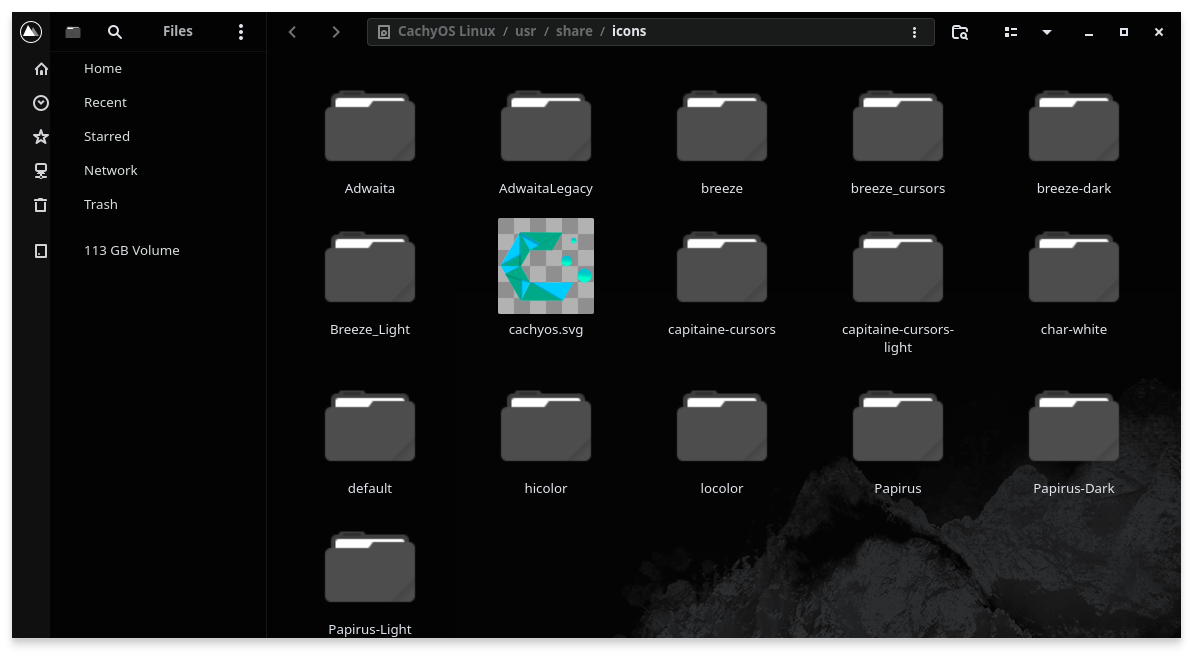
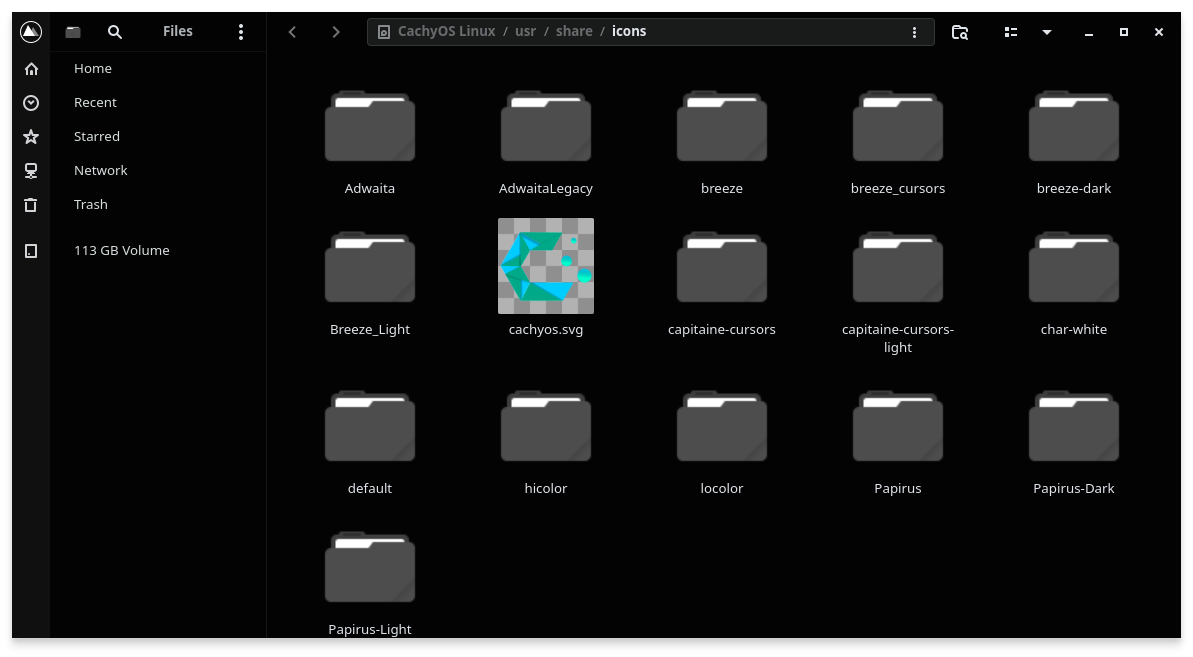
Nautilus: grey selection marker, no view background
Mark the selected place with the neutral grey of the Tela black folder
icons (#4d4d4d square and dot) instead of Qogir's blue, and drop the
corner mountains so the file view stays pure black.

diff --git a/gtk-amoled/_nautilus.scss b/gtk-amoled/_nautilus.scss
@@ -16,6 +16,12 @@ $_dot_position: $_strip_width + 4px; // matches upstream's GTK 3 layout
 // enough to read as a separate column.
 $_strip_bg: if($variant == 'dark', #101010, $dark_sidebar_icon_bg);
 
+// The selected place is marked in neutral grey on AMOLED (the folder grey of
+// the Tela black icon theme) instead of Qogir's blue.
+$_mark: if($variant == 'dark', #4d4d4d, $selected_bg_color);
+$_mark_edge: lighten($_mark, 10%);
+$_dot: if($variant == 'dark', 'selected-dot-amoled', 'selected-dot');
+
 .nautilus-window {
   .sidebar-pane > toolbarview {
     background-image: image($_strip_bg);
@@ -63,15 +69,15 @@ $_strip_bg: if($variant == 'dark', #101010, $dark_sidebar_icon_bg);
       &:hover:not(:selected) {
         color: $fg_color;
         background-color: transparentize($dark_sidebar_fg, 0.95);
-        box-shadow: inset -2px 0 lighten($selected_bg_color, 10%),
+        box-shadow: inset -2px 0 $_mark_edge,
                     inset $_strip_width 0 0 0 $_strip_bg;
       }
 
       &:selected, &:selected:hover, &:active:hover {
         background-color: transparent;
-        background-image: -gtk-scaled(url("assets/selected-dot.png"), url("assets/selected-dot@2.png"));
+        background-image: -gtk-scaled(url("assets/#{$_dot}.png"), url("assets/#{$_dot}@2.png"));
         background-position: $_dot_position center;
-        box-shadow: inset $_strip_width 0 0 0 $selected_bg_color;
+        box-shadow: inset $_strip_width 0 0 0 $_mark;
 
         > revealer > box {
           > image:first-child { color: $selected_fg_color; }
@@ -81,8 +87,8 @@ $_strip_bg: if($variant == 'dark', #101010, $dark_sidebar_icon_bg);
 
       &:selected:hover, &:active:hover {
         background-color: transparentize($dark_sidebar_fg, 0.95);
-        box-shadow: inset -2px 0 lighten($selected_bg_color, 10%),
-                    inset $_strip_width 0 0 0 $selected_bg_color;
+        box-shadow: inset -2px 0 $_mark_edge,
+                    inset $_strip_width 0 0 0 $_mark;
       }
 
       &:disabled {
@@ -93,14 +99,4 @@ $_strip_bg: if($variant == 'dark', #101010, $dark_sidebar_icon_bg);
     }
   }
 
-  // Qogir's mountains in the corner of the icon view. The upstream dark image
-  // has an opaque #282a33 background, so the AMOLED variant ships its own with
-  // a transparent one.
-  .nautilus-grid-view gridview {
-    background-image: if($variant == 'dark',
-      -gtk-scaled(url("assets/backimage-amoled.png"), url("assets/backimage-amoled@2.png")),
-      -gtk-scaled(url("assets/backimage.png"), url("assets/backimage@2.png")));
-    background-repeat: no-repeat;
-    background-position: bottom right;
-  }
 }

diff --git a/gtk/src/_sass/gtk/_amoled-nautilus.scss b/gtk/src/_sass/gtk/_amoled-nautilus.scss
@@ -16,6 +16,12 @@ $_dot_position: $_strip_width + 4px; // matches upstream's GTK 3 layout
 // enough to read as a separate column.
 $_strip_bg: if($variant == 'dark', #101010, $dark_sidebar_icon_bg);
 
+// The selected place is marked in neutral grey on AMOLED (the folder grey of
+// the Tela black icon theme) instead of Qogir's blue.
+$_mark: if($variant == 'dark', #4d4d4d, $selected_bg_color);
+$_mark_edge: lighten($_mark, 10%);
+$_dot: if($variant == 'dark', 'selected-dot-amoled', 'selected-dot');
+
 .nautilus-window {
   .sidebar-pane > toolbarview {
     background-image: image($_strip_bg);
@@ -63,15 +69,15 @@ $_strip_bg: if($variant == 'dark', #101010, $dark_sidebar_icon_bg);
       &:hover:not(:selected) {
         color: $fg_color;
         background-color: transparentize($dark_sidebar_fg, 0.95);
-        box-shadow: inset -2px 0 lighten($selected_bg_color, 10%),
+        box-shadow: inset -2px 0 $_mark_edge,
                     inset $_strip_width 0 0 0 $_strip_bg;
       }
 
       &:selected, &:selected:hover, &:active:hover {
         background-color: transparent;
-        background-image: -gtk-scaled(url("assets/selected-dot.png"), url("assets/selected-dot@2.png"));
+        background-image: -gtk-scaled(url("assets/#{$_dot}.png"), url("assets/#{$_dot}@2.png"));
         background-position: $_dot_position center;
-        box-shadow: inset $_strip_width 0 0 0 $selected_bg_color;
+        box-shadow: inset $_strip_width 0 0 0 $_mark;
 
         > revealer > box {
           > image:first-child { color: $selected_fg_color; }
@@ -81,8 +87,8 @@ $_strip_bg: if($variant == 'dark', #101010, $dark_sidebar_icon_bg);
 
       &:selected:hover, &:active:hover {
         background-color: transparentize($dark_sidebar_fg, 0.95);
-        box-shadow: inset -2px 0 lighten($selected_bg_color, 10%),
-                    inset $_strip_width 0 0 0 $selected_bg_color;
+        box-shadow: inset -2px 0 $_mark_edge,
+                    inset $_strip_width 0 0 0 $_mark;
       }
 
       &:disabled {
@@ -93,14 +99,4 @@ $_strip_bg: if($variant == 'dark', #101010, $dark_sidebar_icon_bg);
     }
   }
 
-  // Qogir's mountains in the corner of the icon view. The upstream dark image
-  // has an opaque #282a33 background, so the AMOLED variant ships its own with
-  // a transparent one.
-  .nautilus-grid-view gridview {
-    background-image: if($variant == 'dark',
-      -gtk-scaled(url("assets/backimage-amoled.png"), url("assets/backimage-amoled@2.png")),
-      -gtk-scaled(url("assets/backimage.png"), url("assets/backimage@2.png")));
-    background-repeat: no-repeat;
-    background-position: bottom right;
-  }
 }

diff --git a/gtk/src/gtk/theme-4.0/gtk-Dark.css b/gtk/src/gtk/theme-4.0/gtk-Dark.css
@@ -8798,14 +8798,14 @@ dialog-host > dialog.osd:not(progressbar):not(button):not(menubutton):not(splitb
 .nautilus-window placessidebar list.navigation-sidebar > row:hover:not(:selected) {
   color: #e6ebef;
   background-color: rgba(216, 222, 223, 0.05);
-  box-shadow: inset -2px 0 #7eafe9, inset 38px 0 0 0 #101010;
+  box-shadow: inset -2px 0 #676767, inset 38px 0 0 0 #101010;
 }
 
 .nautilus-window placessidebar list.navigation-sidebar > row:selected, .nautilus-window placessidebar list.navigation-sidebar > row:selected:hover, .nautilus-window placessidebar list.navigation-sidebar > row:active:hover {
   background-color: transparent;
-  background-image: -gtk-scaled(url("assets/selected-dot.png"), url("assets/selected-dot@2.png"));
+  background-image: -gtk-scaled(url("assets/selected-dot-amoled.png"), url("assets/selected-dot-amoled@2.png"));
   background-position: 42px center;
-  box-shadow: inset 38px 0 0 0 #5294e2;
+  box-shadow: inset 38px 0 0 0 #4d4d4d;
 }
 
 .nautilus-window placessidebar list.navigation-sidebar > row:selected > revealer > box > image:first-child, .nautilus-window placessidebar list.navigation-sidebar > row:selected:hover > revealer > box > image:first-child, .nautilus-window placessidebar list.navigation-sidebar > row:active:hover > revealer > box > image:first-child {
@@ -8818,7 +8818,7 @@ dialog-host > dialog.osd:not(progressbar):not(button):not(menubutton):not(splitb
 
 .nautilus-window placessidebar list.navigation-sidebar > row:selected:hover, .nautilus-window placessidebar list.navigation-sidebar > row:active:hover {
   background-color: rgba(216, 222, 223, 0.05);
-  box-shadow: inset -2px 0 #7eafe9, inset 38px 0 0 0 #5294e2;
+  box-shadow: inset -2px 0 #676767, inset 38px 0 0 0 #4d4d4d;
 }
 
 .nautilus-window placessidebar list.navigation-sidebar > row:disabled, .nautilus-window placessidebar list.navigation-sidebar > row:disabled label, .nautilus-window placessidebar list.navigation-sidebar > row:disabled image {
@@ -8827,10 +8827,4 @@ dialog-host > dialog.osd:not(progressbar):not(button):not(menubutton):not(splitb
 
 .nautilus-window placessidebar list.navigation-sidebar > row:backdrop {
   opacity: 0.75;
-}
-
-.nautilus-window .nautilus-grid-view gridview {
-  background-image: -gtk-scaled(url("assets/backimage-amoled.png"), url("assets/backimage-amoled@2.png"));
-  background-repeat: no-repeat;
-  background-position: bottom right;
 }

diff --git a/gtk/src/gtk/theme-4.0/gtk-Light.css b/gtk/src/gtk/theme-4.0/gtk-Light.css
@@ -8824,9 +8824,3 @@ dialog-host > dialog.osd:not(progressbar):not(button):not(menubutton):not(splitb
 .nautilus-window placessidebar list.navigation-sidebar > row:backdrop {
   opacity: 0.75;
 }
-
-.nautilus-window .nautilus-grid-view gridview {
-  background-image: -gtk-scaled(url("assets/backimage.png"), url("assets/backimage@2.png"));
-  background-repeat: no-repeat;
-  background-position: bottom right;
-}

diff --git a/gtk/src/gtk/theme-4.0/gtk.css b/gtk/src/gtk/theme-4.0/gtk.css
@@ -8870,9 +8870,3 @@ dialog-host > dialog.osd:not(progressbar):not(button):not(menubutton):not(splitb
 .nautilus-window placessidebar list.navigation-sidebar > row:backdrop {
   opacity: 0.75;
 }
-
-.nautilus-window .nautilus-grid-view gridview {
-  background-image: -gtk-scaled(url("assets/backimage.png"), url("assets/backimage@2.png"));
-  background-repeat: no-repeat;
-  background-position: bottom right;
-}

diff --git a/README.md b/README.md
@@ -17,7 +17,7 @@ It continues [ncarvalho99/qogir-black](https://github.com/ncarvalho99/qogir-blac
 | Plasma style | Qogir AMOLED | Panel, popups and widgets follow the color scheme. |
 | Window decorations | Qogir AMOLED, Qogir AMOLED (circle) | Aurorae, Plasma 6 metadata included. |
 | Application style | Kvantum `Qogir-amoled` | Opaque black. `Qogir-amoled-translucent` keeps upstream's blur. |
-| GTK theme | `Qogir-Amoled-Dark` | GTK 2, 3, 4 and libadwaita apps. Includes Qogir's Nautilus look (see below). |
+| GTK theme | `Qogir-Amoled-Dark` | GTK 2, 3, 4 and libadwaita apps. Includes Qogir's Nautilus sidebar (see below). |
 | Icons and cursors | `Qogir-Dark` | Downloaded from upstream [Qogir-icon-theme](https://github.com/vinceliuice/Qogir-icon-theme). |
 | Top panel | Qogir AMOLED Top Panel | Qogir's top bar: launcher, global menu, tray, split clock, search. Add it from *Add Panel*, or tick *Desktop and window layout* when applying the global theme (that replaces your panels). |
 | Clock widget | Split Digital Clock | Plasma 6 rewrite of Qogir's date \| time clock, with the Plasma calendar in its popup. |
@@ -69,9 +69,9 @@ Accent colors, text and borders are left untouched.
 
 ## Nautilus
 
-Qogir's signature file manager look (the dark icon strip down the sidebar, the blue square and dot on the selected place, the mountain logo, the mountains in the corner of the view) was written for Nautilus' old sidebar and stopped applying when Nautilus rebuilt it as a plain list. [`gtk-amoled/_nautilus.scss`](gtk-amoled/_nautilus.scss) restores it for Nautilus 48+, and the corner mountains get an AMOLED version with a transparent background (upstream's dark one is an opaque `#282a33` block).
+Qogir's signature file manager look (the dark icon strip down the sidebar, the square and dot marking the selected place, the mountain logo in the header) was written for Nautilus' old sidebar and stopped applying when Nautilus rebuilt it as a plain list. [`gtk-amoled/_nautilus.scss`](gtk-amoled/_nautilus.scss) restores it for Nautilus 48+, AMOLED style: the selected place is marked in neutral grey (`#4d4d4d`, the folder grey of the Tela black icons) instead of blue, and the file view stays pure black with no background image.
 
-Dolphin can't be styled this way: Qt styles like Kvantum have no hook for a sidebar icon column or a view background image.
+Dolphin can't be styled this way: Qt styles like Kvantum have no hook for a sidebar icon column.
 
 ## Login screen
 
